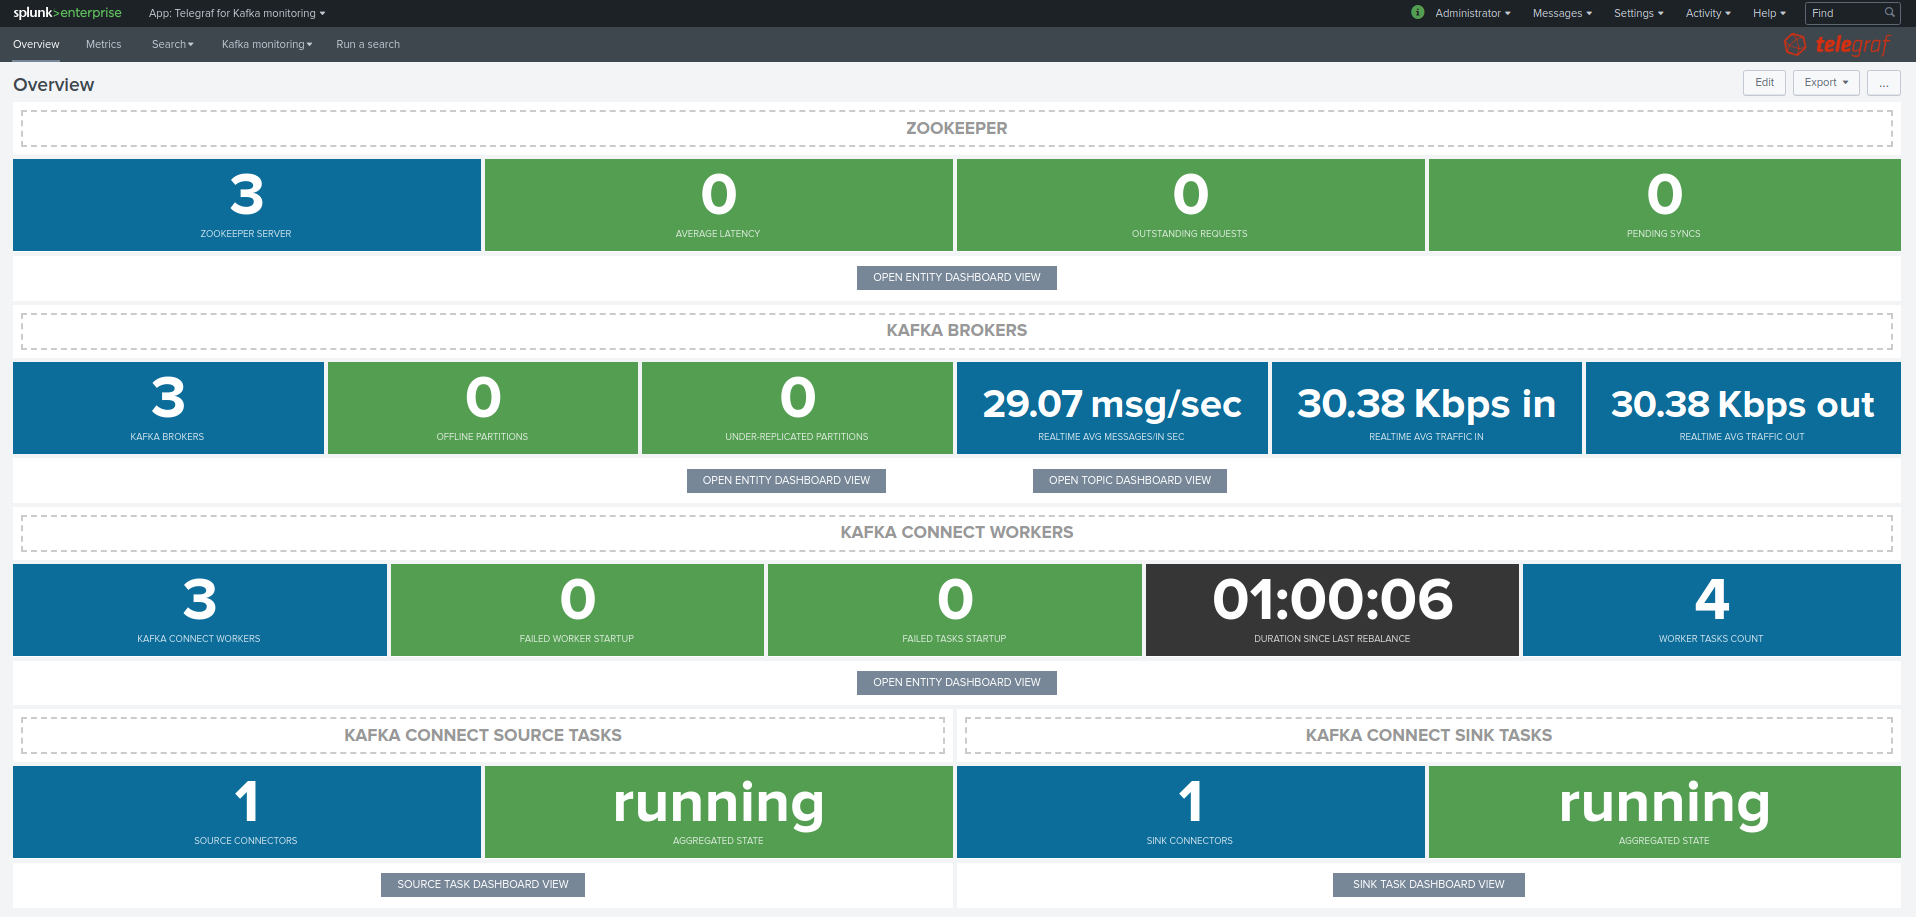
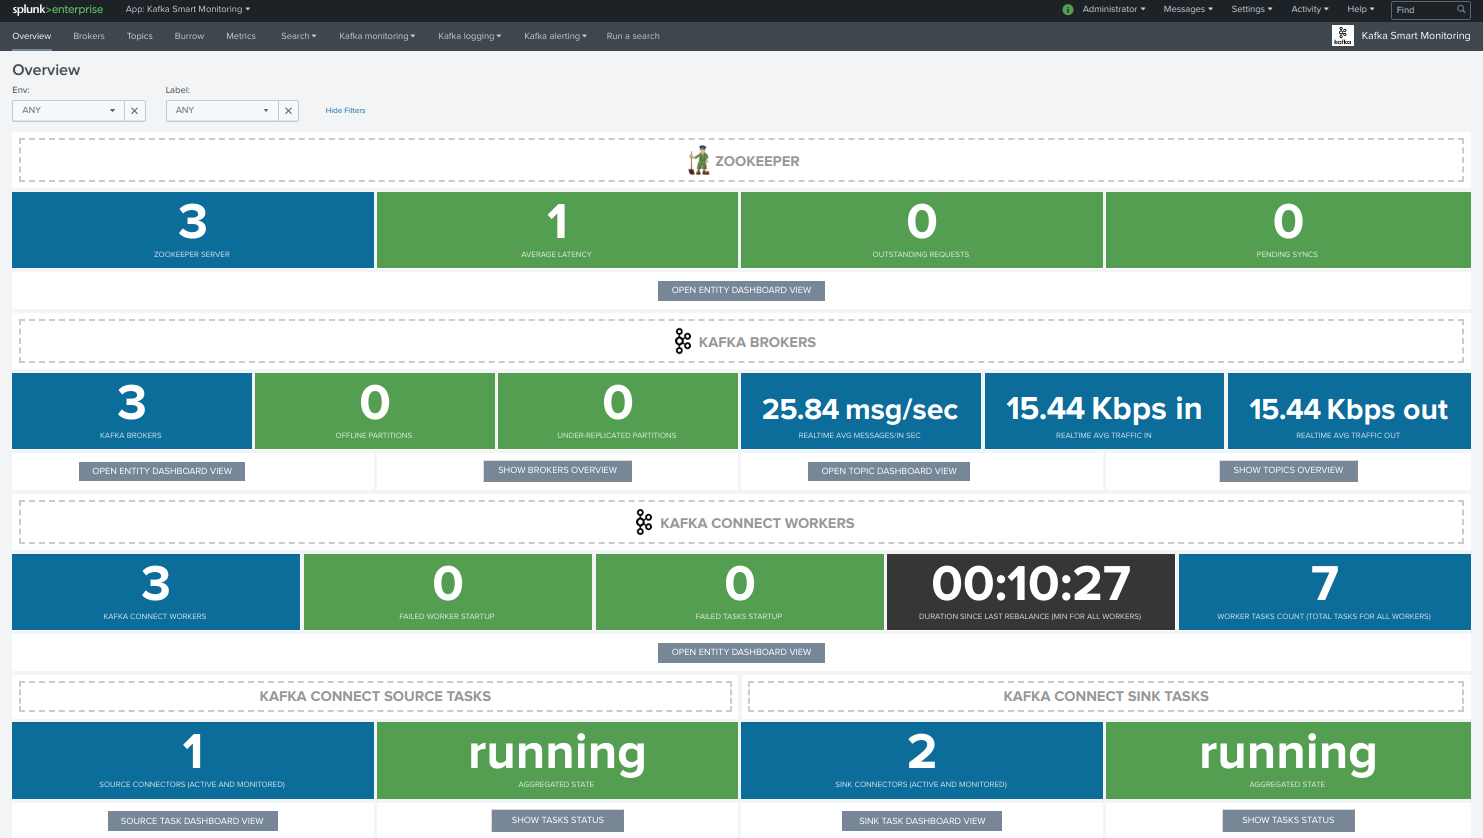
screenshot updates

diff --git a/README.md b/README.md
@@ -26,6 +26,8 @@ The Splunk application for Telegraf Kafka monitoring provides smart insight moni
 
 ![screen1](./docs/img/main1.png)
 
+![screen1](./docs/img/main2.png)
+
 This Splunk application is a backport of the origin ITSI module for Telegraf smart monitoring:
 
 https://github.com/guilhemmarchand/DA-ITSI-TELEGRAF-KAFKA
